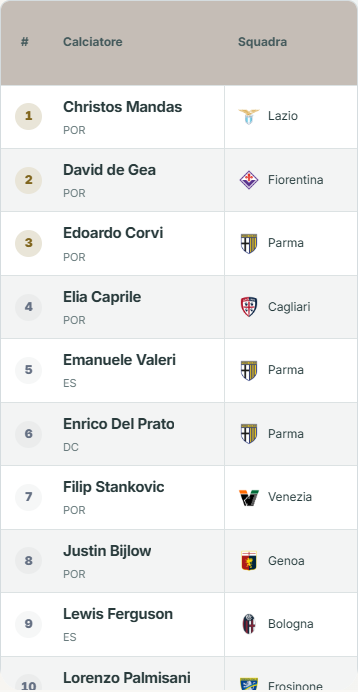
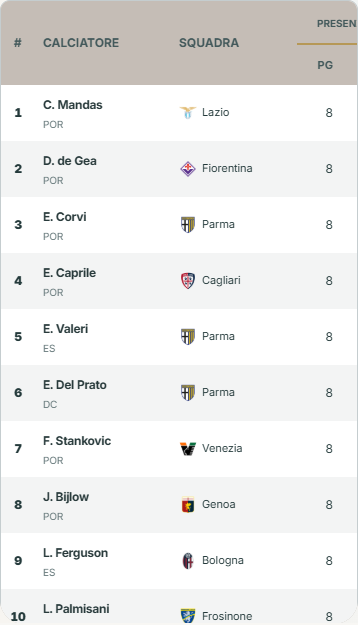
fix mobile

diff --git a/css/pages/player-stats.css b/css/pages/player-stats.css
@@ -2360,6 +2360,36 @@ body,button,input,select,textarea{font-family:var(--font-body)}
 }
 @media(max-width:760px){
 }
+@media(max-width:760px){
+
+#team-squad-app.team-dashboard-pilot .squad-table--compact :is(.squad-col-played,.squad-col-minutes){width:62px}
+
+
+#team-squad-app.team-dashboard-pilot .squad-table--compact :is(th,td){padding-inline:8px;font-size:12px}
+
+
+
+
+}
+@media(max-width:760px){
+
+
+#team-squad-app.team-dashboard-pilot .squad-table--compact tbody tr:is(:hover,:focus-within){--roster-row-bg:#eaecea}
+
+
+
+
+
+}
+@media(max-width:760px){
+
+}
+
+
+
+#team-squad-app.team-dashboard-pilot .squad-leader-card .leader-player:is(:hover,:focus-visible){color:var(--text);text-decoration:none;cursor:default;transition:none}
+#team-squad-app.team-dashboard-pilot .squad-table--compact tbody tr:is(:hover,:focus-within)>td{background-color:#eaecea}
+#team-squad-app.team-dashboard-pilot .squad-table--compact tbody tr:is(:hover,:focus-within)>td:first-child{background-color:#d5f1f2}
 /* players.css: original cascade position */
 .squad-table td small{display:block;color:var(--muted,#667085)}
 
@@ -5280,6 +5310,48 @@ body[data-page="player-stats"] #app .global-player-table tbody tr:is(:hover,:foc
 body[data-page="player-stats"] #app .global-player-table thead :is(th,.ranking-sort){text-transform:uppercase}
 body[data-page="player-stats"] #app>.global-player-leaders+.player-comparator{margin-top:48px;padding-top:36px;border-top:1px solid #c5cdcf}
 @media(max-width:700px){body[data-page="player-stats"] #app>.global-player-leaders+.player-comparator{margin-top:32px;padding-top:28px}}
+@media(max-width:700px){body[data-page="player-stats"] #app .player-ranking-scroll{max-height:65svh;overflow:auto;overscroll-behavior-x:contain;overscroll-behavior-y:auto;-webkit-overflow-scrolling:touch;scrollbar-gutter:stable;background:#fff}
+body[data-page="player-stats"] #app .global-player-table,
+ body[data-page="player-stats"] #app .global-player-table.goalkeeper-ranking-table{min-width:0;width:max-content;border-collapse:separate;border-spacing:0;background:#fff}
+body[data-page="player-stats"] #app .global-player-table col.ranking-col-rank{width:34px}
+body[data-page="player-stats"] #app .global-player-table col.ranking-col-player{width:136px}
+body[data-page="player-stats"] #app .global-player-table col.ranking-col-team{width:110px}
+body[data-page="player-stats"] #app .global-player-table col.ranking-col-base{width:60px}
+body[data-page="player-stats"] #app .global-player-table col.ranking-col-stat{width:72px}
+body[data-page="player-stats"] #app .global-player-table col.ranking-col-action{width:52px}
+body[data-page="player-stats"] #app .global-player-table :is(th,td){padding-inline:8px;line-height:18px;background-clip:border-box;border-inline:0;box-shadow:none}
+body[data-page="player-stats"] #app .global-player-table tbody td{height:56px;border:0;border-bottom:1px solid #dce2e3}
+body[data-page="player-stats"] #app .global-player-table tbody td:first-child,
+ body[data-page="player-stats"] #app .global-player-table thead tr:first-child>th:first-child{left:0;width:34px;min-width:34px;max-width:34px;padding-inline:3px;box-shadow:none}
+body[data-page="player-stats"] #app .global-player-table tbody td:nth-child(2),
+ body[data-page="player-stats"] #app .global-player-table thead tr:first-child>th:nth-child(2){left:34px;width:136px;min-width:136px;max-width:136px;box-shadow:none}
+body[data-page="player-stats"] #app .global-player-table thead tr:nth-child(2)>th{left:auto;width:auto;min-width:0;max-width:none;box-shadow:none}
+body[data-page="player-stats"] #app .global-player-table thead tr:first-child>th[colspan]{font-size:10px;letter-spacing:0;line-height:18px}
+body[data-page="player-stats"] #app .global-player-table thead tr:first-child>th{border-bottom:0}
+body[data-page="player-stats"] #app .global-player-table thead tr:first-child>th[rowspan],
+ body[data-page="player-stats"] #app .global-player-table thead tr:nth-child(2)>th{border-bottom:1px solid #dce2e3}
+body[data-page="player-stats"] #app .global-player-table .global-leader-player{font-size:12px;line-height:18px}
+body[data-page="player-stats"] #app .global-player-table .global-leader-player>span{gap:3px}
+body[data-page="player-stats"] #app .global-player-table .global-leader-player strong{white-space:normal;overflow-wrap:anywhere;font-size:12px;line-height:18px}
+body[data-page="player-stats"] #app .global-player-table .global-leader-player small{margin-top:0;font-size:10px;line-height:14px}
+body[data-page="player-stats"] #app .global-player-table .global-leader-rank{min-width:24px;width:24px;height:24px;line-height:24px}
+body[data-page="player-stats"] #app .global-player-table .player-team{gap:5px;font-size:11px;white-space:normal}
+body[data-page="player-stats"] #app .global-player-table .player-team-badge{width:18px;height:18px;object-fit:contain}}
+@media(max-width:700px){body[data-page="player-stats"] #app .player-ranking-scroll{padding:0;background:#c5bdb6;box-shadow:none;border:1px solid #c5cdcf}
+body[data-page="player-stats"] #app .global-player-table :is(thead,tbody,tr){border:0;box-shadow:none}
+body[data-page="player-stats"] #app .global-player-table tbody tr>td{border:0;box-shadow:none;background-clip:border-box}
+body[data-page="player-stats"] #app .global-player-table thead tr>th,
+ body[data-page="player-stats"] #app .global-player-table thead tr:first-child>th[rowspan],
+ body[data-page="player-stats"] #app .global-player-table thead tr:nth-child(2)>th{border:0;box-shadow:none;background-color:#c5bdb6}
+body[data-page="player-stats"] #app .global-player-table thead tr:nth-child(2)>th{height:40px;padding-block:6px}
+body[data-page="player-stats"] #app .global-player-table .ranking-sort{line-height:18px;padding-block:2px}}
+body[data-page="player-stats"] #app .global-player-table tbody tr .global-leader-rank{display:inline;background:none;border:0;border-radius:0;box-shadow:none;width:auto;min-width:0;height:auto;padding:0;line-height:inherit;color:#243a3b}
+@media(max-width:700px){body[data-page="player-stats"] #app .global-player-table thead{position:sticky;top:0;z-index:10;background:#c5bdb6;isolation:isolate}
+body[data-page="player-stats"] #app .global-player-table thead tr{background:#c5bdb6}
+body[data-page="player-stats"] #app .global-player-table thead tr>th,
+ body[data-page="player-stats"] #app .global-player-table thead tr:nth-child(2)>th{position:static;top:auto;left:auto;background-color:#c5bdb6;border:0;outline:0;box-shadow:none}
+body[data-page="player-stats"] #app .global-player-table thead tr:first-child>th:first-child{position:sticky;left:0;top:auto;z-index:12;background:#c5bdb6}
+body[data-page="player-stats"] #app .global-player-table thead tr:first-child>th:nth-child(2){position:sticky;left:34px;top:auto;z-index:12;background:#c5bdb6}}
 /* component-system.css: original cascade position */
 body .readings-index :is(.ri-archive,.ri-future){
   border:0;

diff --git a/statistiche-giocatori.html b/statistiche-giocatori.html
@@ -1,2 +1,2 @@
 <!doctype html>
-<html lang="it"><head><meta charset="utf-8"><meta name="viewport" content="width=device-width,initial-scale=1"><meta name="description" content="Serie A e Coppa Italia 2026/27: Statistiche giocatori"><title>Statistiche giocatori | Serie A 2026/27</title><link rel="icon" type="image/png" href="assets/images/serie-a-logo-mark.png"><link rel="preconnect" href="https://fonts.googleapis.com"><link rel="preconnect" href="https://fonts.gstatic.com" crossorigin><link href="https://fonts.googleapis.com/css2?family=Anton&family=Inter:ital,opsz,wght@0,14..32,100..900;1,14..32,100..900&display=swap" rel="stylesheet"><!-- page-styles:start --><link rel="stylesheet" href="css/pages/player-stats.css?v=0013a8a10bf2"><!-- page-styles:end --><script src="js/public-presentation.js?v=20261016-public-policy"></script></head><body data-page="player-stats"><header id="site-top" class="site-header"><a class="brand" href="index.html"><span class="brand-mark"><img src="assets/images/optimized/serie-a-logo-mark.webp" alt=""></span><span><strong>Serie A 2026/27</strong><small>Campionato e Coppa Italia</small></span></a><button class="menu-button" type="button" aria-controls="site-nav" aria-expanded="false">Menu</button><nav id="site-nav" class="site-nav" aria-label="Navigazione principale"><a class="page-link" data-page-link="home" href="index.html">Home</a><a class="page-link" data-page-link="team-stats" href="statistiche-squadre.html">Squadre</a><a class="page-link active" data-page-link="player-stats" href="statistiche-giocatori.html">Giocatori</a><a class="page-link" data-page-link="readings" href="lettura.html">Lettura</a><a class="page-link" data-page-link="cup" href="coppa-italia.html">Coppa Italia</a><a class="page-link" data-page-link="champions" href="champions-league.html">Champions League</a><a class="page-link" data-page-link="betting" href="schedina.html">Schedina</a></nav></header><main id="app" tabindex="-1"><section class="loading"><p class="eyebrow">Caricamento</p><h1>Statistiche giocatori</h1></section></main><footer class="site-footer"><div class="site-footer-inner"><div class="site-footer-top"><div class="site-footer-intro"><a class="footer-brand" href="index.html"><span class="footer-brand-mark"><img src="assets/images/optimized/serie-a-logo-mark.webp" alt=""></span><span><strong>Serie A 2026/27</strong><small>Campionato e Coppa Italia</small></span></a><p>Calendario, rose, statistiche e letture della stagione raccolti in un unico spazio.</p><span class="footer-season">Stagione 2026/27</span></div><nav class="footer-nav" aria-label="Navigazione nel footer"><div><strong>Campionato</strong><a href="index.html">Home</a><a href="statistiche-squadre.html">Squadre</a><a href="statistiche-giocatori.html">Giocatori</a></div><div><strong>Approfondimenti</strong><a href="lettura.html">Lettura</a><a href="coppa-italia.html">Coppa Italia</a><a href="champions-league.html">Champions League</a><a href="schedina.html">Schedina</a></div></nav></div><div class="site-footer-bottom"><p>Progetto statico indipendente</p><a href="#site-top">Torna su <span aria-hidden="true">↑</span></a></div></div></footer><script type="module" src="js/app.js?v=20261024-player-keepers-data-v12-headings-1c721e4de1e6"></script></body></html>
+<html lang="it"><head><meta charset="utf-8"><meta name="viewport" content="width=device-width,initial-scale=1"><meta name="description" content="Serie A e Coppa Italia 2026/27: Statistiche giocatori"><title>Statistiche giocatori | Serie A 2026/27</title><link rel="icon" type="image/png" href="assets/images/serie-a-logo-mark.png"><link rel="preconnect" href="https://fonts.googleapis.com"><link rel="preconnect" href="https://fonts.gstatic.com" crossorigin><link href="https://fonts.googleapis.com/css2?family=Anton&family=Inter:ital,opsz,wght@0,14..32,100..900;1,14..32,100..900&display=swap" rel="stylesheet"><!-- page-styles:start --><link rel="stylesheet" href="css/pages/player-stats.css?v=1f58caf5fb32"><!-- page-styles:end --><script src="js/public-presentation.js?v=20261016-public-policy"></script></head><body data-page="player-stats"><header id="site-top" class="site-header"><a class="brand" href="index.html"><span class="brand-mark"><img src="assets/images/optimized/serie-a-logo-mark.webp" alt=""></span><span><strong>Serie A 2026/27</strong><small>Campionato e Coppa Italia</small></span></a><button class="menu-button" type="button" aria-controls="site-nav" aria-expanded="false">Menu</button><nav id="site-nav" class="site-nav" aria-label="Navigazione principale"><a class="page-link" data-page-link="home" href="index.html">Home</a><a class="page-link" data-page-link="team-stats" href="statistiche-squadre.html">Squadre</a><a class="page-link active" data-page-link="player-stats" href="statistiche-giocatori.html">Giocatori</a><a class="page-link" data-page-link="readings" href="lettura.html">Lettura</a><a class="page-link" data-page-link="cup" href="coppa-italia.html">Coppa Italia</a><a class="page-link" data-page-link="champions" href="champions-league.html">Champions League</a><a class="page-link" data-page-link="betting" href="schedina.html">Schedina</a></nav></header><main id="app" tabindex="-1"><section class="loading"><p class="eyebrow">Caricamento</p><h1>Statistiche giocatori</h1></section></main><footer class="site-footer"><div class="site-footer-inner"><div class="site-footer-top"><div class="site-footer-intro"><a class="footer-brand" href="index.html"><span class="footer-brand-mark"><img src="assets/images/optimized/serie-a-logo-mark.webp" alt=""></span><span><strong>Serie A 2026/27</strong><small>Campionato e Coppa Italia</small></span></a><p>Calendario, rose, statistiche e letture della stagione raccolti in un unico spazio.</p><span class="footer-season">Stagione 2026/27</span></div><nav class="footer-nav" aria-label="Navigazione nel footer"><div><strong>Campionato</strong><a href="index.html">Home</a><a href="statistiche-squadre.html">Squadre</a><a href="statistiche-giocatori.html">Giocatori</a></div><div><strong>Approfondimenti</strong><a href="lettura.html">Lettura</a><a href="coppa-italia.html">Coppa Italia</a><a href="champions-league.html">Champions League</a><a href="schedina.html">Schedina</a></div></nav></div><div class="site-footer-bottom"><p>Progetto statico indipendente</p><a href="#site-top">Torna su <span aria-hidden="true">↑</span></a></div></div></footer><script type="module" src="js/app.js?v=20261024-player-keepers-data-v12-headings-1c1290dc25bc"></script></body></html>

diff --git a/css/player-statistics.css b/css/player-statistics.css
@@ -214,3 +214,59 @@ body[data-page="player-stats"] #app .global-player-table thead :is(th,.ranking-s
 /* Separate player statistics from the comparison section. */
 body[data-page="player-stats"] #app>.global-player-leaders+.player-comparator{margin-top:48px;padding-top:36px;border-top:1px solid #c5cdcf}
 @media(max-width:700px){body[data-page="player-stats"] #app>.global-player-leaders+.player-comparator{margin-top:32px;padding-top:28px}}
+
+/* Mobile player table: compact pinned identity and continuous opaque cells. */
+@media(max-width:700px){
+ body[data-page="player-stats"] #app .player-ranking-scroll{max-height:65svh;overflow:auto;overscroll-behavior-x:contain;overscroll-behavior-y:auto;-webkit-overflow-scrolling:touch;scrollbar-gutter:stable;background:#fff}
+ body[data-page="player-stats"] #app .global-player-table,
+ body[data-page="player-stats"] #app .global-player-table.goalkeeper-ranking-table{min-width:0;width:max-content;border-collapse:separate;border-spacing:0;background:#fff}
+ body[data-page="player-stats"] #app .global-player-table col.ranking-col-rank{width:34px}
+ body[data-page="player-stats"] #app .global-player-table col.ranking-col-player{width:136px}
+ body[data-page="player-stats"] #app .global-player-table col.ranking-col-team{width:110px}
+ body[data-page="player-stats"] #app .global-player-table col.ranking-col-base{width:60px}
+ body[data-page="player-stats"] #app .global-player-table col.ranking-col-stat{width:72px}
+ body[data-page="player-stats"] #app .global-player-table col.ranking-col-action{width:52px}
+ body[data-page="player-stats"] #app .global-player-table :is(th,td){padding-inline:8px;line-height:18px;background-clip:border-box;border-inline:0;box-shadow:none}
+ body[data-page="player-stats"] #app .global-player-table tbody td{height:56px;border:0;border-bottom:1px solid #dce2e3}
+ body[data-page="player-stats"] #app .global-player-table tbody td:first-child,
+ body[data-page="player-stats"] #app .global-player-table thead tr:first-child>th:first-child{left:0;width:34px;min-width:34px;max-width:34px;padding-inline:3px;box-shadow:none}
+ body[data-page="player-stats"] #app .global-player-table tbody td:nth-child(2),
+ body[data-page="player-stats"] #app .global-player-table thead tr:first-child>th:nth-child(2){left:34px;width:136px;min-width:136px;max-width:136px;box-shadow:none}
+ body[data-page="player-stats"] #app .global-player-table thead tr:nth-child(2)>th{left:auto;width:auto;min-width:0;max-width:none;box-shadow:none}
+ body[data-page="player-stats"] #app .global-player-table thead tr:first-child>th[colspan]{font-size:10px;letter-spacing:0;line-height:18px}
+ body[data-page="player-stats"] #app .global-player-table thead tr:first-child>th{border-bottom:0}
+ body[data-page="player-stats"] #app .global-player-table thead tr:first-child>th[rowspan],
+ body[data-page="player-stats"] #app .global-player-table thead tr:nth-child(2)>th{border-bottom:1px solid #dce2e3}
+ body[data-page="player-stats"] #app .global-player-table .global-leader-player{font-size:12px;line-height:18px}
+ body[data-page="player-stats"] #app .global-player-table .global-leader-player>span{gap:3px}
+ body[data-page="player-stats"] #app .global-player-table .global-leader-player strong{white-space:normal;overflow-wrap:anywhere;font-size:12px;line-height:18px}
+ body[data-page="player-stats"] #app .global-player-table .global-leader-player small{margin-top:0;font-size:10px;line-height:14px}
+ body[data-page="player-stats"] #app .global-player-table .global-leader-rank{min-width:24px;width:24px;height:24px;line-height:24px}
+ body[data-page="player-stats"] #app .global-player-table .player-team{gap:5px;font-size:11px;white-space:normal}
+ body[data-page="player-stats"] #app .global-player-table .player-team-badge{width:18px;height:18px;object-fit:contain}
+}
+
+/* Mobile continuity: use alternating fills instead of cell separator borders. */
+@media(max-width:700px){
+ body[data-page="player-stats"] #app .player-ranking-scroll{padding:0;background:#c5bdb6;box-shadow:none;border:1px solid #c5cdcf}
+ body[data-page="player-stats"] #app .global-player-table :is(thead,tbody,tr){border:0;box-shadow:none}
+ body[data-page="player-stats"] #app .global-player-table tbody tr>td{border:0;box-shadow:none;background-clip:border-box}
+ body[data-page="player-stats"] #app .global-player-table thead tr>th,
+ body[data-page="player-stats"] #app .global-player-table thead tr:first-child>th[rowspan],
+ body[data-page="player-stats"] #app .global-player-table thead tr:nth-child(2)>th{border:0;box-shadow:none;background-color:#c5bdb6}
+ body[data-page="player-stats"] #app .global-player-table thead tr:nth-child(2)>th{height:40px;padding-block:6px}
+ body[data-page="player-stats"] #app .global-player-table .ranking-sort{line-height:18px;padding-block:2px}
+}
+
+/* Plain ranking positions without circular badges. */
+body[data-page="player-stats"] #app .global-player-table tbody tr .global-leader-rank{display:inline;background:none;border:0;border-radius:0;box-shadow:none;width:auto;min-width:0;height:auto;padding:0;line-height:inherit;color:#243a3b}
+
+/* Paint and pin the mobile header as one continuous surface. */
+@media(max-width:700px){
+ body[data-page="player-stats"] #app .global-player-table thead{position:sticky;top:0;z-index:10;background:#c5bdb6;isolation:isolate}
+ body[data-page="player-stats"] #app .global-player-table thead tr{background:#c5bdb6}
+ body[data-page="player-stats"] #app .global-player-table thead tr>th,
+ body[data-page="player-stats"] #app .global-player-table thead tr:nth-child(2)>th{position:static;top:auto;left:auto;background-color:#c5bdb6;border:0;outline:0;box-shadow:none}
+ body[data-page="player-stats"] #app .global-player-table thead tr:first-child>th:first-child{position:sticky;left:0;top:auto;z-index:12;background:#c5bdb6}
+ body[data-page="player-stats"] #app .global-player-table thead tr:first-child>th:nth-child(2){position:sticky;left:34px;top:auto;z-index:12;background:#c5bdb6}
+}

diff --git a/js/pages/teams.js b/js/pages/teams.js
@@ -28,7 +28,7 @@ function globalPlayerLeaderboardTable(data,periodId,metricId,filters={},sort={ke
   const metrics=filters.role==="goalkeepers"?[{field:"goalsConceded",label:"Gol subiti"},{field:"cards",label:"Cartellini"}]:Object.values(period.rankings);
   const sortHeader=(label,key,mode)=>{const active=sort.key===key&&sort.mode===mode;return `<th scope="col" aria-sort="${active?(sort.direction==="asc"?"ascending":"descending"):"none"}"><button type="button" class="ranking-sort" data-ranking-sort="${esc(key)}" data-sort-mode="${mode}">${esc(label)}</button></th>`};
   const valueHeaders=metrics.map(metric=>sortHeader("Tot.",metric.field,"total")+sortHeader("/90",metric.field,"per90")).join("");
-  return `<div class="table-wrap squad-table-wrap player-ranking-scroll" role="region" aria-label="Classifica calciatori; scorri orizzontalmente e verticalmente" tabindex="0"><table class="squad-table global-player-table${filters.role==="goalkeepers"?" goalkeeper-ranking-table":""}"><colgroup><col class="ranking-col-rank"><col class="ranking-col-player"><col class="ranking-col-team"><col class="ranking-col-base"><col class="ranking-col-base">${metrics.map(()=>'<col class="ranking-col-stat"><col class="ranking-col-stat">').join("")}<col class="ranking-col-action"></colgroup><thead><tr><th rowspan="2" scope="col">#</th>${sortHeader("CALCIATORE","name","text").replace('<th scope="col"','<th rowspan="2" scope="col"')}${sortHeader("SQUADRA","currentTeam","text").replace('<th scope="col"','<th rowspan="2" scope="col"')}<th colspan="2" scope="colgroup">Presenze</th>${metrics.map(metric=>`<th colspan="2" scope="colgroup">${esc(metric.label)}</th>`).join("")}<th rowspan="2" scope="col">Azioni</th></tr><tr>${sortHeader("PG","appearances","base")}${sortHeader("Min","minutes","base")}${valueHeaders}</tr></thead><tbody>${ranking.players.map((player,index)=>{const serieB=periodId!=="2026/27"&&player.competition==="Serie B"?'<span class="serie-b-marker" title="Il riepilogo include dati prodotti in Serie B 2025/26">* Serie B</span>':"",valueCells=metrics.map(metric=>{const value=player.values?.[metric.field],rate=player.per90?.[metric.field];return `<td><strong class="global-leader-value">${typeof value==="number"&&Number.isFinite(value)?globalLeaderboardValue(value):"N/D"}</strong></td><td><span class="global-leader-rate">${typeof rate==="number"&&Number.isFinite(rate)?rate.toFixed(2):"N/D"}</span></td>`}).join("");return `<tr><td><span class="global-leader-rank">${index+1}</span></td><td><span class="global-leader-player" title="${esc(player.name)}"><span><strong data-full-name="${esc(player.name)}">${esc(player.name)}</strong>${serieB}<small>${esc(playerRoleLabel(player.role))}</small></span></span></td><td><span class="player-team">${badge(player.currentTeamId)}${esc(player.currentTeam)}</span></td><td>${player.appearances??"N/D"}</td><td>${player.minutes??"N/D"}</td>${valueCells}<td><button type="button" class="compare-pick" data-compare-key="${esc(player.currentTeamId+":"+player.id)}" aria-label="Confronta ${esc(player.name)}">⇄</button></td></tr>`}).join("")}</tbody></table></div>`;
+  return `<div class="table-wrap squad-table-wrap player-ranking-scroll" role="region" aria-label="Classifica calciatori; scorri orizzontalmente e verticalmente" tabindex="0"><table class="squad-table global-player-table${filters.role==="goalkeepers"?" goalkeeper-ranking-table":""}"><colgroup><col class="ranking-col-rank"><col class="ranking-col-player"><col class="ranking-col-team"><col class="ranking-col-base"><col class="ranking-col-base">${metrics.map(()=>'<col class="ranking-col-stat"><col class="ranking-col-stat">').join("")}<col class="ranking-col-action"></colgroup><thead><tr><th rowspan="2" scope="col">#</th>${sortHeader("CALCIATORE","name","text").replace('<th scope="col"','<th rowspan="2" scope="col"')}${sortHeader("SQUADRA","currentTeam","text").replace('<th scope="col"','<th rowspan="2" scope="col"')}<th colspan="2" scope="colgroup">Presenze</th>${metrics.map(metric=>`<th colspan="2" scope="colgroup">${esc(metric.label)}</th>`).join("")}<th rowspan="2" scope="col">Azioni</th></tr><tr>${sortHeader("PG","appearances","base")}${sortHeader("Min","minutes","base")}${valueHeaders}</tr></thead><tbody>${ranking.players.map((player,index)=>{const serieB=periodId!=="2026/27"&&player.competition==="Serie B"?'<span class="serie-b-marker" title="Il riepilogo include dati prodotti in Serie B 2025/26">* Serie B</span>':"",valueCells=metrics.map(metric=>{const value=player.values?.[metric.field],rate=player.per90?.[metric.field];return `<td><strong class="global-leader-value">${typeof value==="number"&&Number.isFinite(value)?globalLeaderboardValue(value):"N/D"}</strong></td><td><span class="global-leader-rate">${typeof rate==="number"&&Number.isFinite(rate)?rate.toFixed(2):"N/D"}</span></td>`}).join("");return `<tr><td><span class="global-leader-rank">${index+1}</span></td><td><span class="global-leader-player" title="${esc(player.name)}"><span><strong data-full-name="${esc(player.name)}">${esc(rankingPlayerName(player.name))}</strong>${serieB}<small>${esc(playerRoleLabel(player.role))}</small></span></span></td><td><span class="player-team">${badge(player.currentTeamId)}${esc(player.currentTeam)}</span></td><td>${player.appearances??"N/D"}</td><td>${player.minutes??"N/D"}</td>${valueCells}<td><button type="button" class="compare-pick" data-compare-key="${esc(player.currentTeamId+":"+player.id)}" aria-label="Confronta ${esc(player.name)}">⇄</button></td></tr>`}).join("")}</tbody></table></div>`;
 }
 function globalPlayerLeaderboards(data){
   const defaultPeriod="2026/27";
